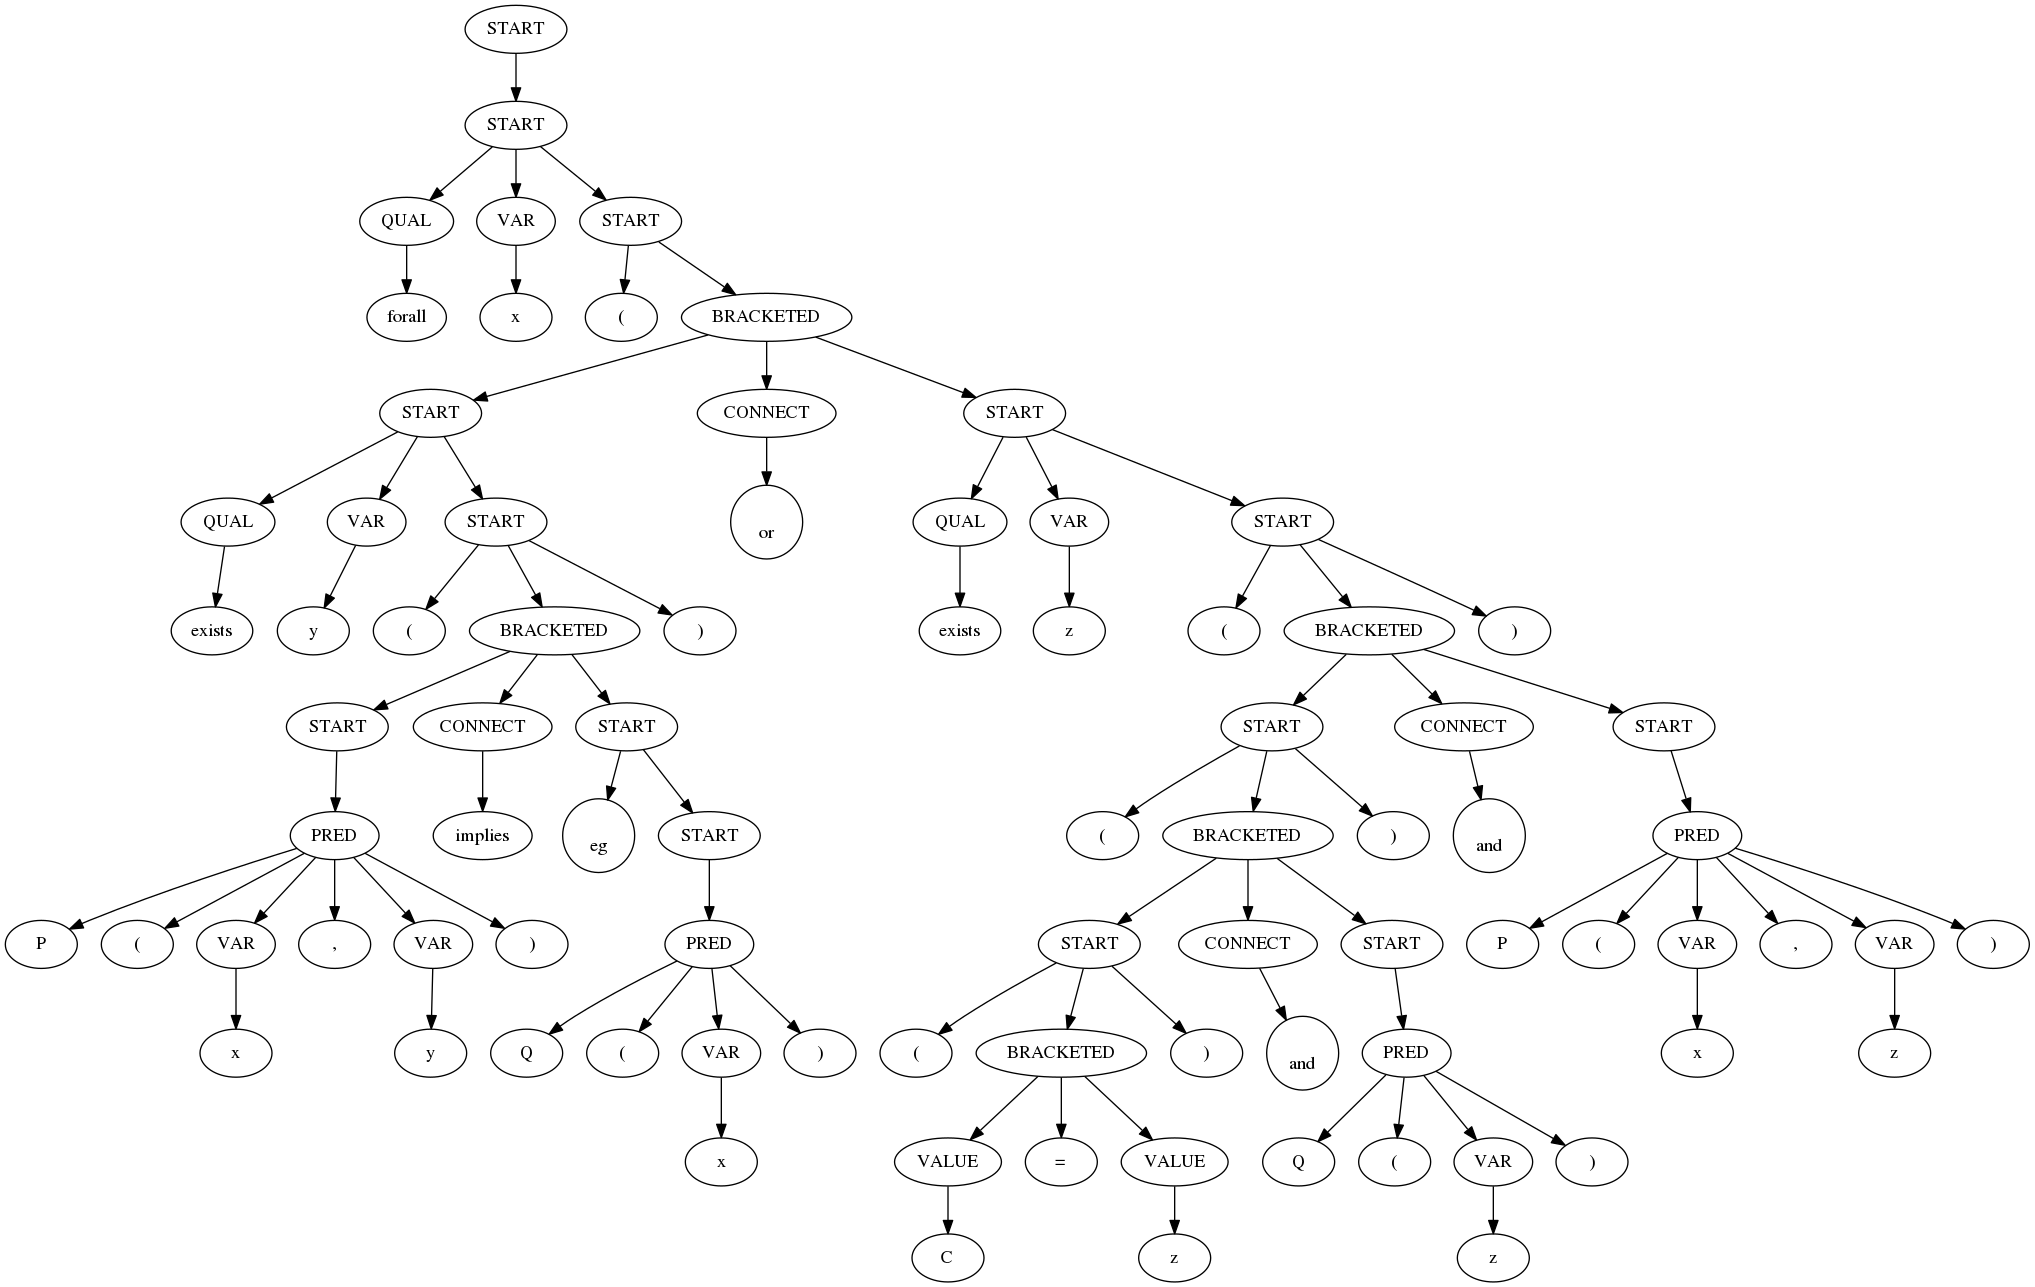
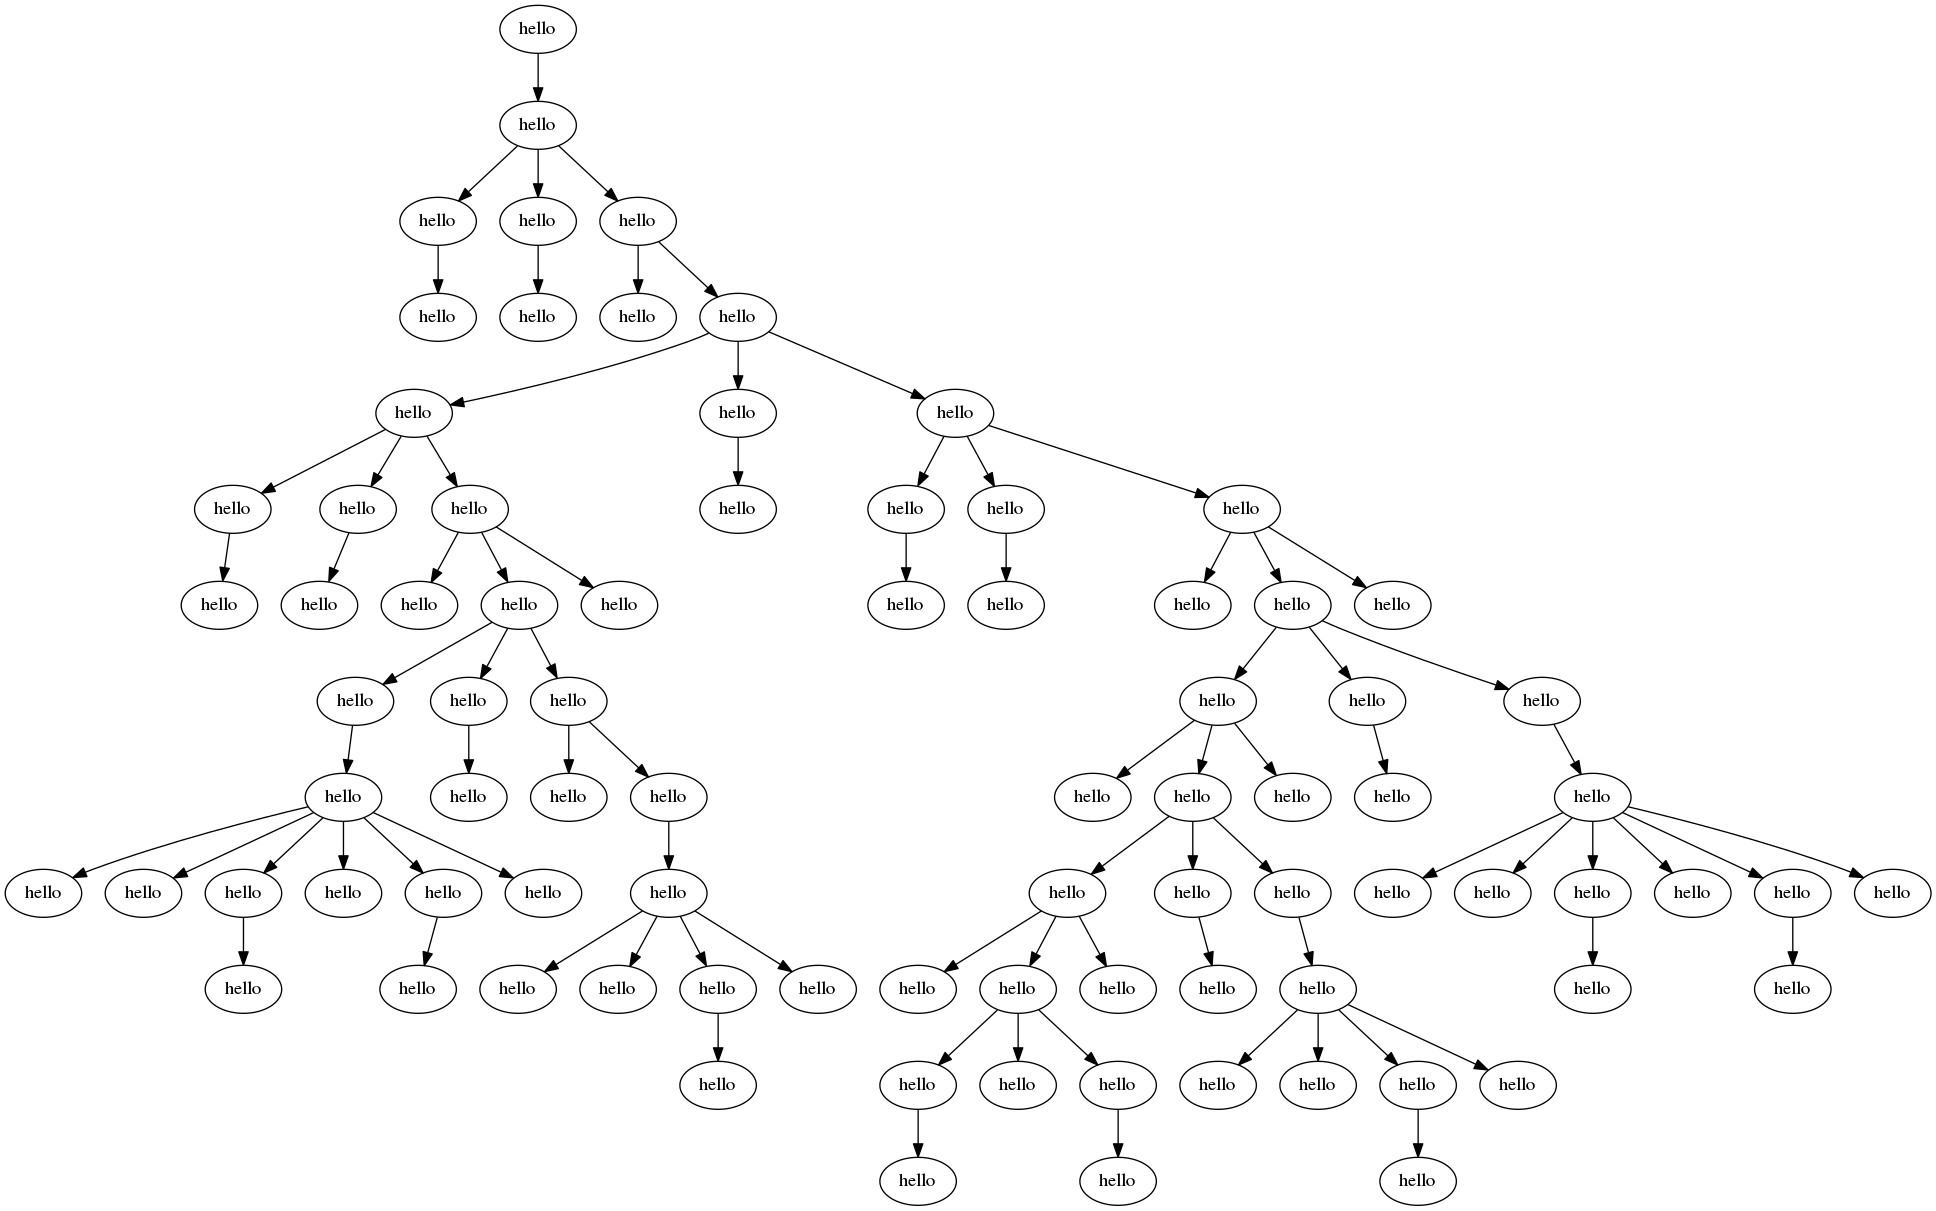
tree

diff --git a/folk.py b/folk.py
@@ -10,6 +10,7 @@ import re
 from typing import List, Tuple, Set
 from anytree import NodeMixin
 from anytree.exporter import UniqueDotExporter
+import datetime
 
 # The program expects one command line argument - the name of the file to be parsed
 if len(sys.argv) != 2:
@@ -18,6 +19,9 @@ if len(sys.argv) != 2:
 
 # Read the input file
 infile = sys.argv[1]
+
+log = open("folk.log", 'a')
+log.write("{} opened at {}\n".format(infile, datetime.datetime.now()))
 with open(infile) as f:
     tokens = f.read().split()
 
@@ -197,7 +201,7 @@ for left, right in grammar.items():
 class ParseNode(NodeMixin):
     def __init__(self, name: str, parent=None, children=None):
         super(ParseNode, self).__init__()
-        self.name = name
+        self.name = 'hello'#name
         #print(" the child is {}".format(children))
         if children:
             #print("thus")
@@ -355,23 +359,24 @@ while not S == ['\t']:
                 if S == ['\t']:
                     break
                 else:
-                    print("Ran out of characters with stack as:\n\t")
-                    print(S)
-                    break
+                    log.write("Ran out of characters with stack as:\n\t")
+                    log.write(S)
+                    log.write('\n')
+                    sys.exit(1)
             # add leaf to tree
             working_node = ParseNode(top, parent=working_node)
             # and then move back up to nearest incomplete ancestor
             while working_node.isComplete():
                 working_node = working_node.parent
         else:
-            print("Expected to see {} but formula contains {} instead".format(top, c))
-            break
+            log.write("Expected to see {} but formula contains {} instead\n".format(top, c))
+            sys.exit(1)
     else: # Or a non-terminal.
         print("{} is in N".format(top))
         rule = M[top][c]
         if rule == None: # No rule is defined for this
-            print("Error: a {} cannot begin with {}".format(top, c))
-            break
+            log.write("Error: a {} cannot begin with {}\n".format(top, c))
+            sys.exit(1)
         # If a valid rule is available add it to stack
         # We must reverse the list to do this
 
@@ -385,7 +390,8 @@ while not S == ['\t']:
 print(S)
 UniqueDotExporter(root).to_picture("parsetree.png")
 
-
+log.write("Parsing completed\n")
+log.close()
 print("Done")
     
 
